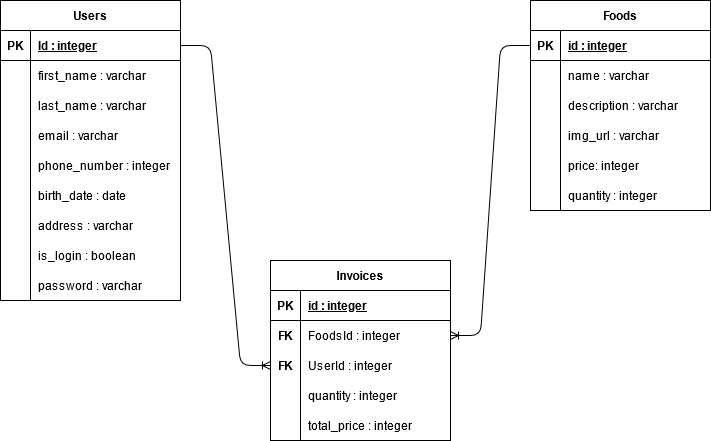
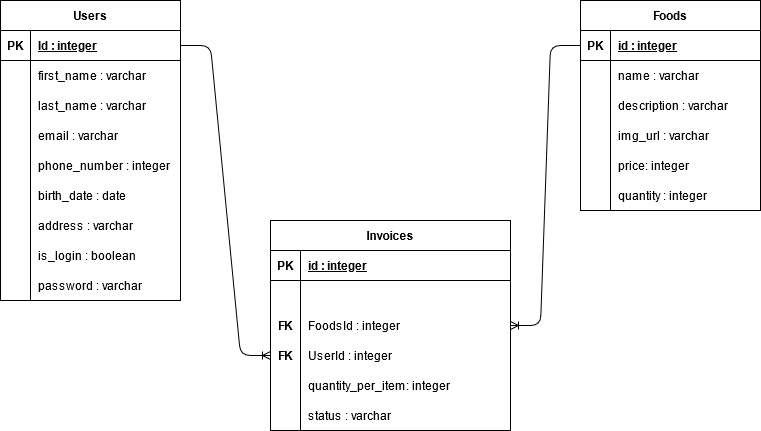
finish model create

diff --git a/migrations/20210630044132-create-invoice.js b/migrations/20210630044132-create-invoice.js
@@ -1,0 +1,48 @@
+'use strict';
+module.exports = {
+  up: (queryInterface, Sequelize) => {
+    return queryInterface.createTable('Invoices', {
+      id: {
+        allowNull: false,
+        autoIncrement: true,
+        primaryKey: true,
+        type: Sequelize.INTEGER
+      },
+      FoodId: {
+        type: Sequelize.INTEGER,
+        reference: {
+          model : 'Foods',
+          keys : 'id'
+        },
+        onDelete: 'cascade',
+        onUpdate: 'cascade'
+      },
+      UserId: {
+        type: Sequelize.INTEGER,
+        reference: {
+          model : 'Users',
+          key : 'id'
+        },
+        onDelete: 'cascade',
+        onUpdate: 'cascade'
+      },
+      quantity_per_item: {
+        type: Sequelize.INTEGER
+      },
+      status: {
+        type: Sequelize.STRING
+      },
+      createdAt: {
+        allowNull: false,
+        type: Sequelize.DATE
+      },
+      updatedAt: {
+        allowNull: false,
+        type: Sequelize.DATE
+      }
+    });
+  },
+  down: (queryInterface, Sequelize) => {
+    return queryInterface.dropTable('Invoices');
+  }
+};

diff --git a/migrations/20210630041413-create-user.js b/migrations/20210630041413-create-user.js
@@ -1,0 +1,48 @@
+'use strict';
+module.exports = {
+  up: (queryInterface, Sequelize) => {
+    return queryInterface.createTable('Users', {
+      id: {
+        allowNull: false,
+        autoIncrement: true,
+        primaryKey: true,
+        type: Sequelize.INTEGER
+      },
+      first_name: {
+        type: Sequelize.STRING
+      },
+      last_name: {
+        type: Sequelize.STRING
+      },
+      email: {
+        type: Sequelize.STRING
+      },
+      phone_number: {
+        type: Sequelize.INTEGER
+      },
+      birth_date: {
+        type: Sequelize.DATE
+      },
+      address: {
+        type: Sequelize.STRING
+      },
+      role: {
+        type: Sequelize.STRING
+      },
+      password: {
+        type: Sequelize.STRING
+      },
+      createdAt: {
+        allowNull: false,
+        type: Sequelize.DATE
+      },
+      updatedAt: {
+        allowNull: false,
+        type: Sequelize.DATE
+      }
+    });
+  },
+  down: (queryInterface, Sequelize) => {
+    return queryInterface.dropTable('Users');
+  }
+};

diff --git a/migrations/20210630041543-create-food.js b/migrations/20210630041543-create-food.js
@@ -1,0 +1,39 @@
+'use strict';
+module.exports = {
+  up: (queryInterface, Sequelize) => {
+    return queryInterface.createTable('Food', {
+      id: {
+        allowNull: false,
+        autoIncrement: true,
+        primaryKey: true,
+        type: Sequelize.INTEGER
+      },
+      name: {
+        type: Sequelize.STRING
+      },
+      description: {
+        type: Sequelize.STRING
+      },
+      img_url: {
+        type: Sequelize.STRING
+      },
+      price: {
+        type: Sequelize.INTEGER
+      },
+      quantity: {
+        type: Sequelize.INTEGER
+      },
+      createdAt: {
+        allowNull: false,
+        type: Sequelize.DATE
+      },
+      updatedAt: {
+        allowNull: false,
+        type: Sequelize.DATE
+      }
+    });
+  },
+  down: (queryInterface, Sequelize) => {
+    return queryInterface.dropTable('Food');
+  }
+};

diff --git a/models/user.js b/models/user.js
@@ -1,0 +1,30 @@
+'use strict';
+const {
+  Model
+} = require('sequelize');
+module.exports = (sequelize, DataTypes) => {
+  class User extends Model {
+    /**
+     * Helper method for defining associations.
+     * This method is not a part of Sequelize lifecycle.
+     * The `models/index` file will call this method automatically.
+     */
+    static associate(models) {
+      User.belongsToMany(models.Food, {through: models.Invoice})
+    }
+  };
+  User.init({
+    first_name: DataTypes.STRING,
+    last_name: DataTypes.STRING,
+    email: DataTypes.STRING,
+    phone_number: DataTypes.INTEGER,
+    birth_date: DataTypes.DATE,
+    address: DataTypes.STRING,
+    role: DataTypes.STRING,
+    password: DataTypes.STRING
+  }, {
+    sequelize,
+    modelName: 'User',
+  });
+  return User;
+};

diff --git a/models/food.js b/models/food.js
@@ -1,0 +1,27 @@
+'use strict';
+const {
+  Model
+} = require('sequelize');
+module.exports = (sequelize, DataTypes) => {
+  class Food extends Model {
+    /**
+     * Helper method for defining associations.
+     * This method is not a part of Sequelize lifecycle.
+     * The `models/index` file will call this method automatically.
+     */
+    static associate(models) {
+      Food.belongsToMany(models.User, {through: models.Invoice})
+    }
+  };
+  Food.init({
+    name: DataTypes.STRING,
+    description: DataTypes.STRING,
+    img_url: DataTypes.STRING,
+    price: DataTypes.INTEGER,
+    quantity: DataTypes.INTEGER
+  }, {
+    sequelize,
+    modelName: 'Food',
+  });
+  return Food;
+};

diff --git a/models/invoice.js b/models/invoice.js
@@ -1,0 +1,26 @@
+'use strict';
+const {
+  Model
+} = require('sequelize');
+module.exports = (sequelize, DataTypes) => {
+  class Invoice extends Model {
+    /**
+     * Helper method for defining associations.
+     * This method is not a part of Sequelize lifecycle.
+     * The `models/index` file will call this method automatically.
+     */
+    static associate(models) {
+      // define association here
+    }
+  };
+  Invoice.init({
+    FoodId: DataTypes.INTEGER,
+    UserId: DataTypes.INTEGER,
+    quantity_per_item: DataTypes.INTEGER,
+    status: DataTypes.STRING
+  }, {
+    sequelize,
+    modelName: 'Invoice',
+  });
+  return Invoice;
+};
